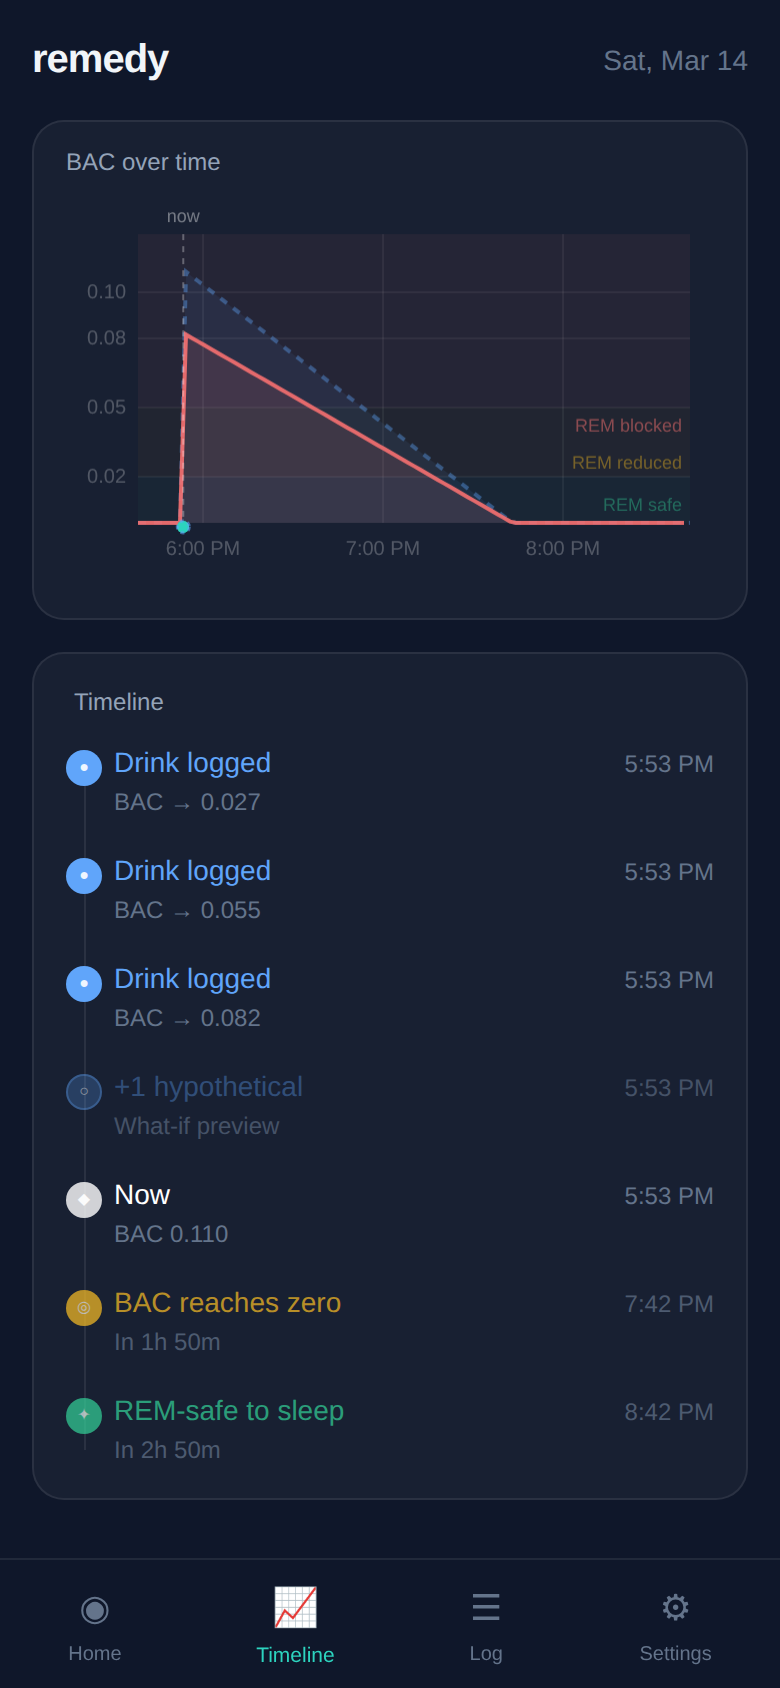
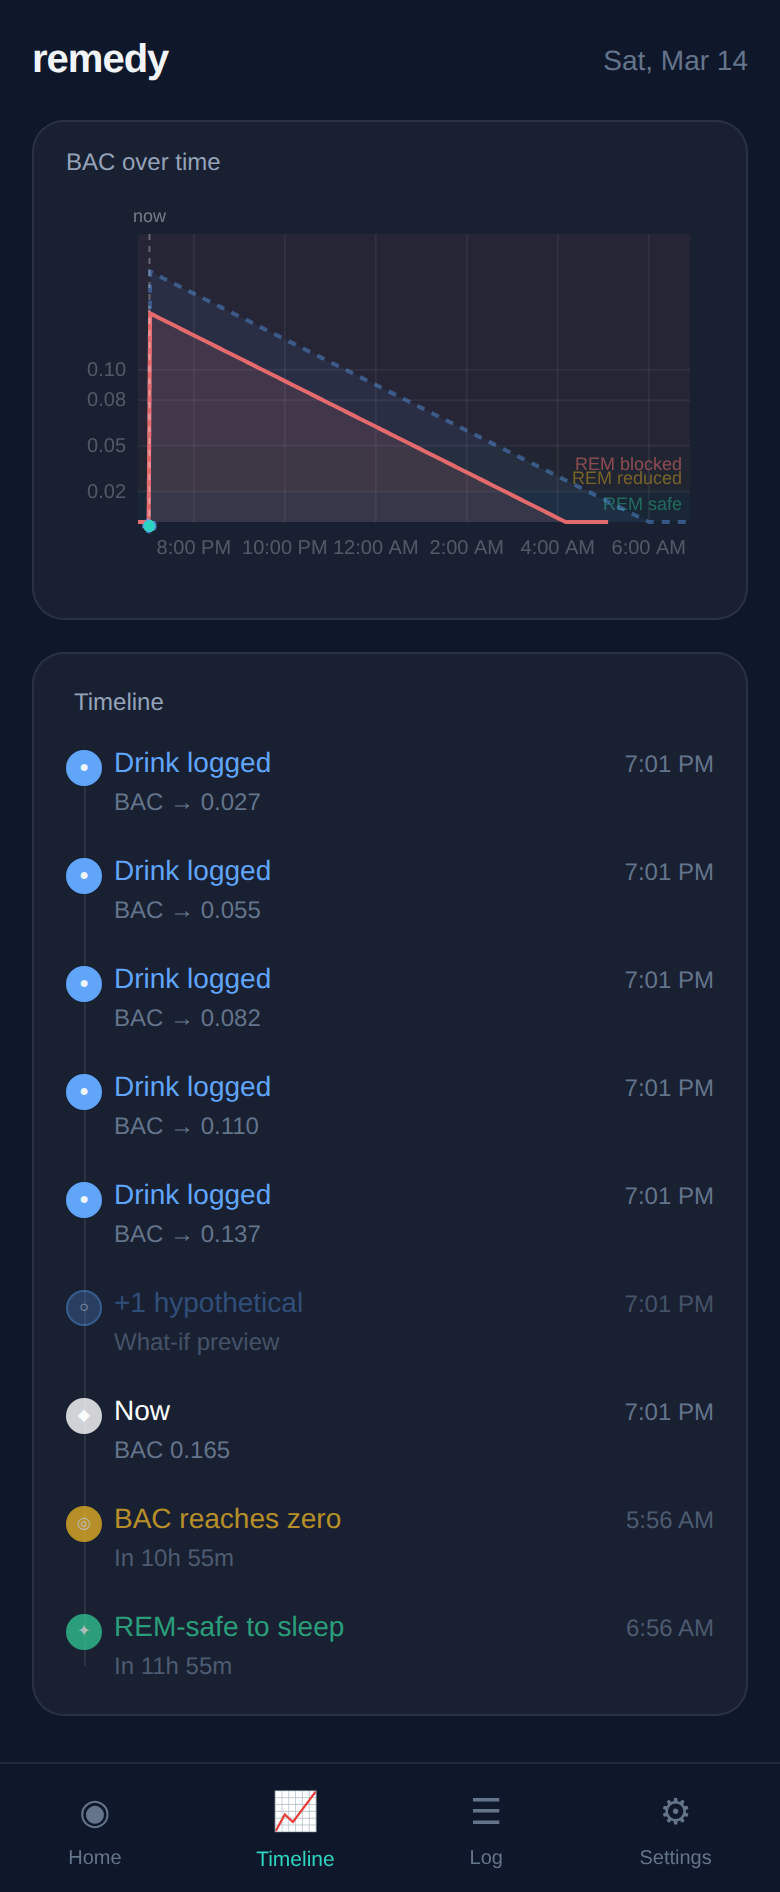
Fix BAC calculation: use zero-order elimination on total BAC
The previous model applied elimination rate per-drink independently,
causing each drink to "clear" in ~1.8 hours regardless of how many
drinks were consumed. 25 drinks would show "sober in 1h 49m" when
the correct answer is ~46 hours.

Now simulates forward chronologically: between each drink event,
BAC decreases at the constant 0.015/hr rate on the running total
(clamped to 0), then each new drink adds its Widmark contribution.
This correctly models zero-order alcohol metabolism.

Verified: 3 drinks = 0.082 BAC, sober in 5.5h
         5 drinks = 0.137 BAC, sober in 9.1h
        25 drinks = 0.686 BAC, sober in 45.8h

https://claude.ai/code/session_01DsPsUywqPmyv1QM4HMqGXa

diff --git a/src/lib/bac.ts b/src/lib/bac.ts
@@ -36,31 +36,47 @@ const WIDMARK_R_FEMALE = 0.55;
 const REM_REDUCTION_COEFFICIENT = 40.4; // minutes per g/kg dose (Gardiner 2024)
 
 /**
- * Calculate current BAC given a list of drinks and user profile.
- * Each drink is metabolized independently from its consumption time.
+ * Calculate BAC at a given time using zero-order elimination.
+ *
+ * Alcohol elimination is constant-rate (~0.015 g/dL/hr) regardless of
+ * how much is in the system. We simulate forward chronologically:
+ * between each drink event, BAC decreases linearly (clamped to 0),
+ * then the new drink's Widmark contribution is added.
  */
 export function calculateBAC(
   drinks: Drink[],
   profile: UserProfile,
   atTime: number = Date.now()
 ): number {
+  // Filter and sort drinks up to atTime
+  const relevant = drinks
+    .filter((d) => d.timestamp <= atTime)
+    .sort((a, b) => a.timestamp - b.timestamp);
+
+  if (relevant.length === 0) return 0;
+
   const r = profile.sex === 'male' ? WIDMARK_R_MALE : WIDMARK_R_FEMALE;
   const bodyWeightG = profile.weightKg * 1000;
 
-  let totalBAC = 0;
+  let bac = 0;
+  let lastTime = relevant[0].timestamp;
 
-  for (const drink of drinks) {
-    if (drink.timestamp > atTime) continue;
+  for (const drink of relevant) {
+    // Eliminate between last event and this drink
+    const hoursElapsed = (drink.timestamp - lastTime) / (1000 * 60 * 60);
+    bac = Math.max(0, bac - ELIMINATION_RATE * hoursElapsed);
+    lastTime = drink.timestamp;
 
-    const hoursElapsed = (atTime - drink.timestamp) / (1000 * 60 * 60);
+    // Add this drink's Widmark contribution
     const alcoholGrams = drink.standardDrinks * ETHANOL_PER_STANDARD_DRINK_G;
-    const bacFromDrink = (alcoholGrams / (bodyWeightG * r)) * 100;
-    const bacAfterElimination = bacFromDrink - ELIMINATION_RATE * hoursElapsed;
-
-    totalBAC += Math.max(0, bacAfterElimination);
+    bac += (alcoholGrams / (bodyWeightG * r)) * 100;
   }
 
-  return Math.max(0, totalBAC);
+  // Eliminate from last drink to atTime
+  const finalHours = (atTime - lastTime) / (1000 * 60 * 60);
+  bac = Math.max(0, bac - ELIMINATION_RATE * finalHours);
+
+  return bac;
 }
 
 /**
